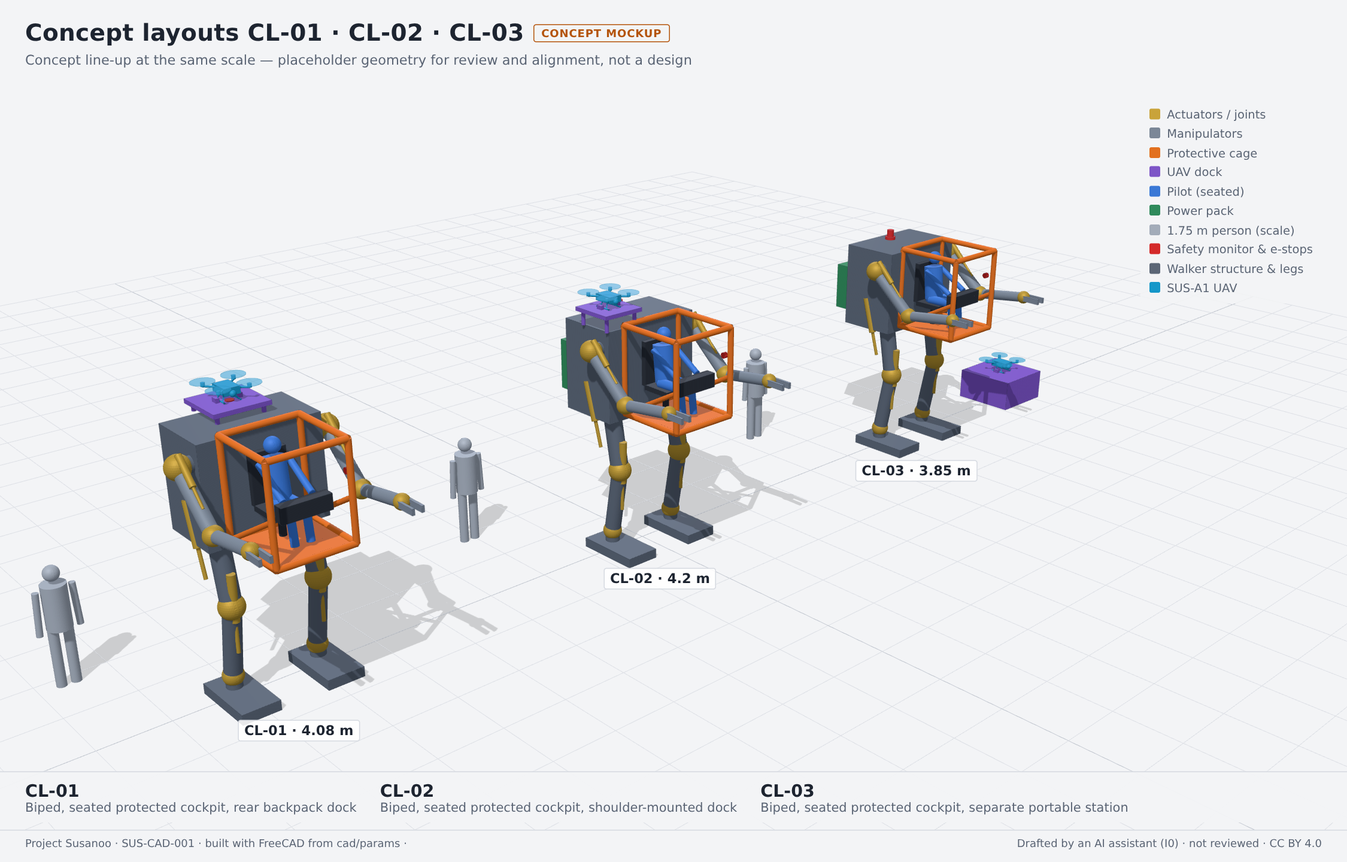
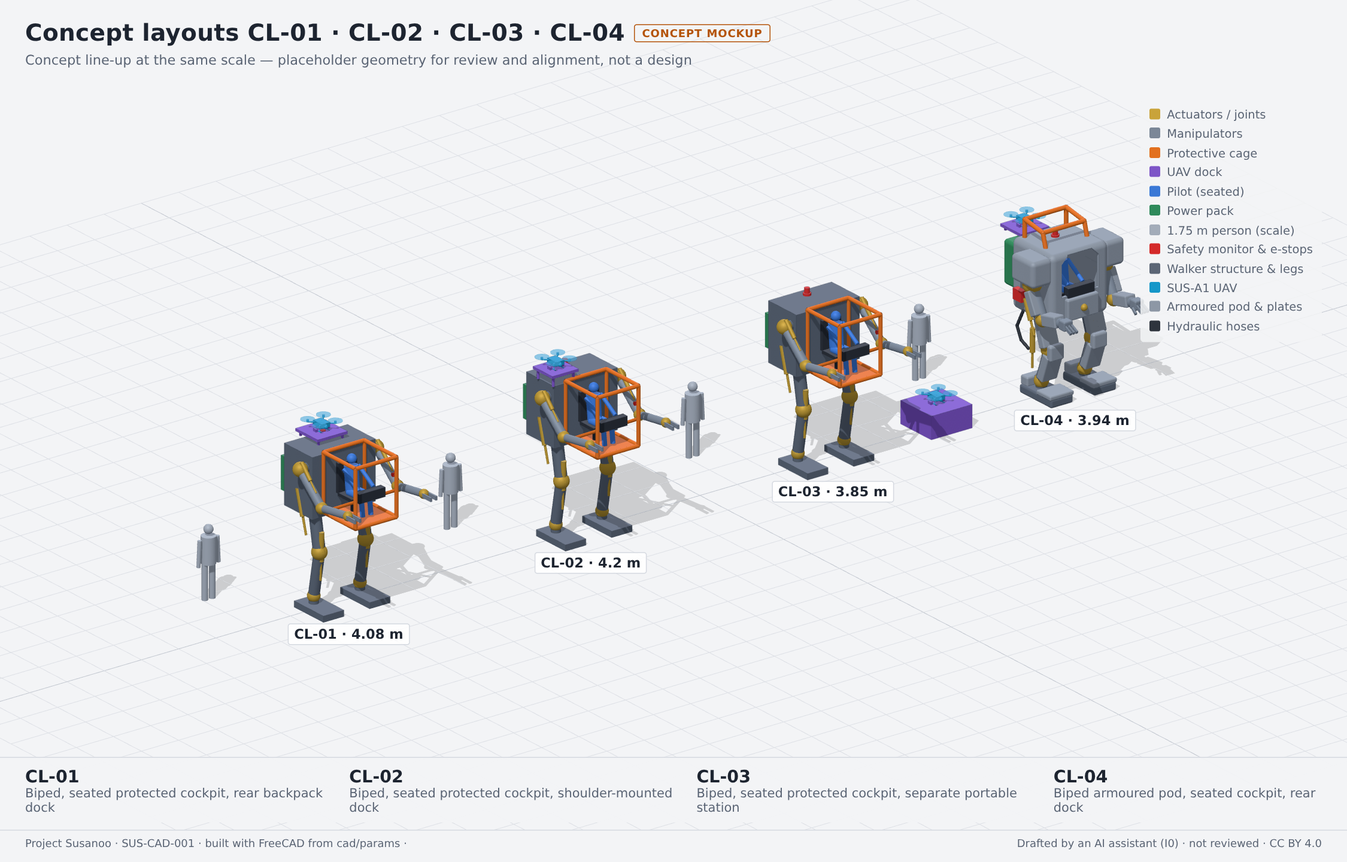
Add CL-04 armoured-pod biped concept layout with eye-level view
CL-04 restyles the parametric biped in the form language of the
project lead's reference image: an enclosed armoured hull with the
pilot seated at an arched front opening, shoulder plates, roll bar,
rear power pack and dock, and hunched legs with armour plates, big
feet and hose runs. The geometry is original; the reference model
(a commercial miniature) is not used or traced.

- build_concepts.py: armored-pod builder (shell cut with a faceted
  opening, oriented plates), mass from solids of compound shapes.
- New "hero" view from 1.7 m eye height for every layout; the
  line-up is now an orthographic three-quarter view so all layouts
  are at exactly the same scale.
- CL-04 record and findings: lowest CG and cockpit floor of the four,
  best biped static margin (still under the 0.3 m flag); the single
  front opening is the only exit (HAZ-008, HAZ-017) and the armour
  narrows the pilot's downward view (HAZ-009).

Claude-Session: https://claude.ai/code/session_011CVdJn3EBxVfYSLZJogx6T

diff --git a/tools/cad/viewer.html b/tools/cad/viewer.html
@@ -101,7 +101,7 @@ const loader = new STLLoader();
 const fmt = (v, d = 2) => Number(v).toFixed(d);
 const legendSeen = new Map();
 const COMPONENT_NAMES = { 'SUS-M1-WLK': 'Walker structure & legs', 'SUS-M1-MAN': 'Manipulators', 'SUS-M1-PIL': 'Pilot station', 'SUS-M1-PWR': 'Power pack', 'SUS-M1-SAF': 'Safety monitor & e-stops', 'SUS-M1-DCK': 'UAV dock', 'SUS-A1': 'SUS-A1 UAV' };
-const CLASS_NAMES = { actuator: 'Actuators / joints', occupant: 'Pilot (seated)', cage: 'Protective cage', reference: '1.75 m person (scale)' };
+const CLASS_NAMES = { actuator: 'Actuators / joints', occupant: 'Pilot (seated)', cage: 'Protective cage', reference: '1.75 m person (scale)', armor: 'Armoured pod & plates', hose: 'Hydraulic hoses' };
 
 async function loadConcept(id, offsetY) {
   const man = await (await fetch(`../../build/cad/${id}/manifest.json`)).json();
@@ -138,7 +138,7 @@ const size = box.getSize(new THREE.Vector3());
 
 const man = mans[0];
 const M = man.metrics;
-if (view !== 'lineup' && view !== 'dock') {
+if (view !== 'lineup' && view !== 'dock' && view !== 'hero') {
   // Centre of gravity marker and its projection on the ground
   const [cx, cy, cz] = M.cg_m;
   const cgMat1 = new THREE.MeshBasicMaterial({ color: '#111827', transparent: true }), cgMat2 = new THREE.MeshBasicMaterial({ color: '#facc15', transparent: true });
@@ -162,9 +162,15 @@ if (view !== 'lineup' && view !== 'dock') {
 
 let camera;
 const target = center.clone();
-if (view === 'iso' || view === 'lineup' || view === 'dock') {
+if (view === 'iso' || view === 'dock' || view === 'hero') {
   camera = new THREE.PerspectiveCamera(view === 'dock' ? 30 : 32, W / H, 0.1, 200);
-  if (view === 'dock') {
+  if (view === 'hero') {
+    // Low front three-quarter view from a standing person's eye height, looking into the cockpit
+    const r = Math.max(size.x, size.y, size.z) * 2.75;
+    camera.fov = 30;
+    camera.position.set(center.x + r * 0.92, center.y - r * 0.40, 1.7);
+    target.set(center.x, center.y + size.y * 0.12, size.z * 0.46);
+  } else if (view === 'dock') {
     const [a, b] = man.rotor_pilot_points;
     target.set((a[0] + b[0]) / 2, (a[1] + b[1]) / 2, (a[2] + b[2]) / 2);
     const d = man.metrics.uav_dock === 'offboard' ? 9.5 : 5.2;
@@ -174,6 +180,13 @@ if (view === 'iso' || view === 'lineup' || view === 'dock') {
     camera.position.set(center.x + r * 0.78, center.y - r * 0.72, center.z + r * 0.40);
     target.z = size.z * (view === 'lineup' ? 0.40 : 0.50);
   }
+} else if (view === 'lineup') {
+  // Orthographic three-quarter view: every concept at exactly the same scale
+  const aspect = W / H;
+  const span = Math.max(size.y * 0.40, size.z * 0.80);
+  camera = new THREE.OrthographicCamera(-span * aspect, span * aspect, span, -span, 0.1, 400);
+  target.set(center.x, center.y, size.z * 0.38);
+  camera.position.set(target.x + 60, target.y - 45, target.z + 32);
 } else {
   // Half-height chosen so the ground sits just above the metrics strip and the top clears the header.
   const span = view === 'side' ? Math.max(size.z / 1.45, size.x / 2.6) : Math.max(size.x, size.y) * 0.62;
@@ -183,6 +196,7 @@ if (view === 'iso' || view === 'lineup' || view === 'dock') {
   if (view === 'top') { camera.up.set(1, 0, 0); target.x = center.x + span * 0.08; camera.position.set(target.x, center.y, 40); camera.zoom = 0.92; }
   camera.updateProjectionMatrix();
 }
+camera.updateProjectionMatrix();
 camera.lookAt(target);
 
 // Annotations per view
@@ -212,10 +226,10 @@ if (view === 'lineup') {
 }
 
 // Header, metrics strip, legend and footer
-const VIEW_NAMES = { iso: 'Three-quarter view', side: 'Side elevation (orthographic)', top: 'Plan view: support polygon and centre of gravity', dock: 'UAV dock: rotor clearance to the pilot', lineup: 'Concept line-up at the same scale' };
+const VIEW_NAMES = { hero: 'Front view from eye height (1.7 m)', iso: 'Three-quarter view', side: 'Side elevation (orthographic)', top: 'Plan view: support polygon and centre of gravity', dock: 'UAV dock: rotor clearance to the pilot', lineup: 'Concept line-up at the same scale' };
 const hdr = document.createElement('div');
 hdr.className = 'hdr';
-const title = view === 'lineup' ? 'Concept layouts CL-01 · CL-02 · CL-03' : `${man.id} · ${man.title}`;
+const title = view === 'lineup' ? `Concept layouts ${ids.join(' · ')}` : `${man.id} · ${man.title}`;
 hdr.innerHTML = `<h1>${title}<span class="badge">CONCEPT MOCKUP</span></h1><div class="sub">${VIEW_NAMES[view]} — placeholder geometry for review and alignment, not a design</div>`;
 frame.appendChild(hdr);
 const lg = document.createElement('div');

diff --git a/tools/cad/build_concepts.py b/tools/cad/build_concepts.py
@@ -43,9 +43,11 @@ CLASSES = {
     "dock":      ("#7d55c7", 1.0, "SUS-M1-DCK"),
     "uav":       ("#1597c9", 1.0, "SUS-A1"),
     "rotor":     ("#1597c9", 0.35, "SUS-A1"),
-        "reference": ("#a3acb9", 1.0, None),
+        "armor":     ("#8d97a5", 1.0, "SUS-M1-PIL"),
+    "hose":      ("#2e343d", 1.0, "SUS-M1-PWR"),
+    "reference": ("#a3acb9", 1.0, None),
 }
-DENSITY_CLASS = {"arm": "structure", "seat": "structure", "rotor": "uav"}
+DENSITY_CLASS = {"arm": "structure", "seat": "structure", "rotor": "uav", "hose": "structure"}
 
 
 def V(x, y, z):
@@ -76,6 +78,20 @@ class Model:
 
     def sph(self, name, cls, c, r):
         self.add(name, cls, Part.makeSphere(r * MM, V(*c)))
+
+    def obox(self, name, cls, p1, p2, w, d, shift=(0, 0, 0), fillet=0.0):
+        """Box of width w (y) and depth d (x) running along the segment p1 -> p2, moved by shift."""
+        a, b = V(*add(p1, shift)), V(*add(p2, shift))
+        axis = b.sub(a)
+        shape = Part.makeBox(d * MM, w * MM, axis.Length, V(-d / 2, -w / 2, 0))
+        if fillet:
+            shape = shape.makeFillet(fillet * MM, shape.Edges)
+        shape.Placement = FreeCAD.Placement(a, FreeCAD.Rotation(FreeCAD.Vector(0, 0, 1), axis))
+        self.add(name, cls, shape)
+
+    def rbox(self, name, cls, lo, size, fillet):
+        shape = Part.makeBox(*(s * MM for s in size), V(*lo))
+        self.add(name, cls, shape.makeFillet(fillet * MM, shape.Edges))
 
 
 def lerp(a, b, t):
@@ -265,6 +281,118 @@ def walker_dock(m, common, D, top, rear_x):
     m.group = "walker"
 
 
+def build_pod(p, common):
+    """Armoured-pod biped (CL-04): enclosed hull, arched front opening, shoulder plates, roll bar."""
+    m = Model()
+    L = p["leg"]
+    kf = L["knee_forward"]
+    knee_z = L["ankle_height"] + math.sqrt(L["shank"] ** 2 - kf ** 2)
+    hip_z = knee_z + math.sqrt(L["thigh"] ** 2 - kf ** 2)
+    fl, fw, ft = L["foot"]
+    aw, ad = L["armour"]
+    for s in (1, -1):
+        y = s * L["hip_half_width"]
+        hip, knee, ankle = [0, y, hip_z], [kf, y, knee_z], [0, y, L["ankle_height"]]
+        m.cyl(f"thigh{s}", "structure", hip, knee, L["radius"])
+        m.cyl(f"shank{s}", "structure", knee, ankle, L["radius"] * 0.9)
+        m.sph(f"hip{s}", "actuator", hip, L["joint_radius"])
+        m.sph(f"knee{s}", "actuator", knee, L["joint_radius"] * 0.9)
+        m.sph(f"ankle{s}", "actuator", ankle, L["joint_radius"] * 0.75)
+        # Armour plates on the outside of thigh and shin, a knee cap in front
+        m.obox(f"thigh-plate{s}", "armor", lerp(hip, knee, 0.12), lerp(hip, knee, 0.88), aw, ad * 0.55, (0.10, s * 0.06, 0), 0.03)
+        m.obox(f"shin-plate{s}", "armor", lerp(knee, ankle, 0.10), lerp(knee, ankle, 0.85), aw, ad * 0.6, (0.14, 0, 0), 0.03)
+        m.rbox(f"knee-cap{s}", "armor", [kf + 0.12, y - 0.19, knee_z - 0.18], [0.16, 0.38, 0.36], 0.05)
+        hydraulic(m, f"thigh-cyl{s}", [-0.28, y + s * 0.22, hip_z + 0.22], add(lerp(hip, knee, 0.65), [-0.16, s * 0.22, 0]))
+        hydraulic(m, f"shank-cyl{s}", add(lerp(hip, knee, 0.5), [-0.20, s * 0.20, 0]), add(lerp(knee, ankle, 0.6), [-0.18, s * 0.20, 0]))
+        x0 = -0.35 * fl
+        m.rbox(f"foot{s}", "structure", [x0, y - fw / 2, 0], [fl, fw, ft], 0.05)
+        m.rbox(f"toe-plate{s}", "armor", [x0 + fl * 0.55, y - fw / 2 - 0.02, ft - 0.02], [fl * 0.45, fw + 0.04, 0.10], 0.03)
+        m.rbox(f"heel-guard{s}", "armor", [x0 - 0.02, y - fw / 2 + 0.05, ft - 0.02], [0.25, fw - 0.10, 0.22], 0.04)
+        m.cyl(f"ankle-link{s}", "structure", ankle, [0, y, ft], L["radius"] * 0.85)
+        m.feet += [(x0, y - fw / 2), (x0 + fl, y - fw / 2), (x0, y + fw / 2), (x0 + fl, y + fw / 2)]
+        # Hydraulic hose loop from the hull to the knee
+        h0 = [-0.25, y + s * 0.30, hip_z - 0.05]
+        h1 = [-0.42, y + s * 0.34, hip_z - 0.45]
+        h2 = [-0.30, y + s * 0.32, knee_z + 0.10]
+        h3 = [-0.12, y + s * 0.26, knee_z - 0.05]
+        for k, (a, b) in enumerate(((h0, h1), (h1, h2), (h2, h3))):
+            m.cyl(f"hose{s}{k}", "hose", a, b, 0.035)
+            m.sph(f"hose-bend{s}{k}", "hose", b, 0.035)
+
+    P = p["pod"]
+    dx, wy, hz = P["size"]
+    x1 = P["x_front"]
+    x0 = x1 - dx
+    z0 = hip_z - P["bottom_offset"]
+    z1 = z0 + hz
+    outer = Part.makeBox(dx * MM, wy * MM, hz * MM, V(x0, -wy / 2, z0))
+    outer = outer.makeFillet(P["edge_radius"] * MM, outer.Edges)
+    w = P["wall"]
+    inner = Part.makeBox((dx - 2 * w) * MM, (wy - 2 * w) * MM, (hz - 2 * w) * MM, V(x0 + w, -wy / 2 + w, z0 + w))
+    floor = z0 + P["floor_offset"]
+    ow, oh, osill = P["opening"]
+    zb = floor + 0.5 + osill
+    c = 0.18  # chamfered corners give the arched, faceted opening
+    pts = [(-ow / 2, zb), (ow / 2, zb), (ow / 2, zb + oh - c), (ow / 2 - c, zb + oh), (-ow / 2 + c, zb + oh), (-ow / 2, zb + oh - c)]
+    wire = Part.makePolygon([V(x1 - 0.5, y_, z_) for y_, z_ in pts] + [V(x1 - 0.5, pts[0][0], pts[0][1])])
+    window = Part.Face(wire).extrude(V(1.0, 0, 0))
+    m.add("pod-hull", "armor", outer.cut(inner).cut(window))
+    m.box("cockpit-floor", "seat", [x0 + w, -wy / 2 + w, floor - 0.04], [dx - 2 * w, wy - 2 * w, 0.04])
+    eye = pilot(m, floor, x1 - P["seat_back_from_front"])
+    # Chest plate below the opening, standing proud of the hull like the reference's front plate
+    m.rbox("chest-plate", "armor", [x1 - 0.04, -0.42, zb - 0.55], [0.16, 0.84, 0.50], 0.04)
+    m.sph("chest-boss", "actuator", [x1 + 0.13, 0, zb - 0.30], 0.08)
+    m.cyl("hip-housing", "structure", [0, -L["hip_half_width"] - 0.12, hip_z], [0, L["hip_half_width"] + 0.12, hip_z], 0.25)
+
+    S = p["shoulder"]
+    sx, sy, sz = S["plate"]
+    A = p["arm"]
+    ang = math.radians(A["drop_angle_deg"])
+    for s in (1, -1):
+        yc = s * (wy / 2 + sy / 2 - 0.08)
+        m.rbox(f"shoulder-plate{s}", "armor", [x1 - sx - 0.05, yc - sy / 2, z1 - S["drop"] - sz], [sx, sy, sz], 0.10)
+        sh = [x1 - sx / 2 - 0.05, s * (wy / 2 + 0.18), z1 - S["drop"] - sz - 0.05]
+        m.sph(f"arm-shoulder{s}", "actuator", sh, A["radius"] * 1.8)
+        elbow = add(sh, [A["upper"] * math.cos(ang), 0, -A["upper"] * math.sin(ang)])
+        wrist = add(elbow, [A["fore"] * math.cos(math.radians(12)), 0, A["fore"] * math.sin(math.radians(12))])
+        m.cyl(f"arm-upper{s}", "arm", sh, elbow, A["radius"])
+        m.obox(f"arm-upper-plate{s}", "armor", lerp(sh, elbow, 0.15), lerp(sh, elbow, 0.85), 0.30, 0.20, (0, s * 0.07, 0), 0.03)
+        m.sph(f"arm-elbow{s}", "actuator", elbow, A["radius"] * 1.35)
+        m.cyl(f"arm-fore{s}", "arm", elbow, wrist, A["radius"] * 0.9)
+        m.obox(f"arm-fore-plate{s}", "armor", lerp(elbow, wrist, 0.15), lerp(elbow, wrist, 0.80), 0.28, 0.26, (0, 0, 0.03), 0.03)
+        m.rbox(f"hand{s}", "arm", [wrist[0] - 0.05, wrist[1] - 0.12, wrist[2] - 0.11], [0.22, 0.24, 0.22], 0.03)
+        for k, dy in enumerate((-0.08, 0.0, 0.08)):
+            m.obox(f"finger{s}{k}", "arm", [wrist[0] + 0.15, wrist[1] + dy, wrist[2]], [wrist[0] + 0.36, wrist[1] + dy, wrist[2] - 0.10], 0.05, 0.06)
+        m.obox(f"thumb{s}", "arm", [wrist[0] + 0.08, wrist[1] - s * 0.13, wrist[2] - 0.05], [wrist[0] + 0.24, wrist[1] - s * 0.16, wrist[2] - 0.14], 0.05, 0.05)
+
+    W = p["power"]
+    px, py, pz = W["pack"]
+    pk0 = x0 - px + 0.06
+    m.rbox("power-pack", "power", [pk0, -py / 2, z0 + 0.35], [px, py, pz], 0.08)
+    for k in range(W["vents"]):
+        yv = (k - (W["vents"] - 1) / 2) * 0.17
+        m.cyl(f"vent{k}", "power", [pk0 + px * 0.55, yv, z0 + 0.35 + pz], [pk0 + px * 0.55, yv, z0 + 0.35 + pz + 0.10], 0.065)
+
+    R = p["rollbar"]
+    rt = R["tube_radius"]
+    top = z1 + R["rise"]
+    for s in (1, -1):
+        yb = s * (wy / 2 - 0.22)
+        m.cyl(f"rollbar-post{s}", "cage", [x0 + 0.20, yb, z1 - 0.05], [x0 + 0.20, yb, top], rt)
+        m.cyl(f"rollbar-fwd{s}", "cage", [x0 + 0.20, yb, top], [x0 + 0.85, yb, top - 0.10], rt)
+        m.cyl(f"rollbar-drop{s}", "cage", [x0 + 0.85, yb, top - 0.10], [x0 + 0.95, yb, z1 - 0.02], rt)
+        m.sph(f"rollbar-bend{s}", "cage", [x0 + 0.20, yb, top], rt)
+        m.sph(f"rollbar-bend2{s}", "cage", [x0 + 0.85, yb, top - 0.10], rt)
+    m.cyl("rollbar-cross", "cage", [x0 + 0.20, -(wy / 2 - 0.22), top], [x0 + 0.20, wy / 2 - 0.22, top], rt)
+    m.cyl("rollbar-cross2", "cage", [x0 + 0.85, -(wy / 2 - 0.22), top - 0.10], [x0 + 0.85, wy / 2 - 0.22, top - 0.10], rt)
+
+    safety_items(m, [x0 + 0.55, 0, z1 - 0.01], [([x1 - 0.35, wy / 2 + 0.01, z0 + 0.55], [0, 1, 0]),
+                                               ([pk0, 0.35, z0 + 0.7], [-1, 0, 0])])
+    m.cbox("saf-controller", "safety", [x0 + 0.40, -wy / 2 - 0.07, z0 + 0.45], [0.30, 0.14, 0.26])
+    walker_dock(m, common, p["dock"], top=z0 + 0.35 + pz, rear_x=pk0)
+    return m, {"hip_z": hip_z, "floor": floor, "eye": eye, "dock": "offboard" if p["dock"]["type"] == "ground-station" else "onboard"}
+
+
 # --- Metrics --------------------------------------------------------------------------------------
 
 def hull(points):
@@ -303,9 +431,10 @@ def metrics(m: Model, info: dict, common: dict) -> dict:
     mom = FreeCAD.Vector(0, 0, 0)
     for pt in on:
         rho = dens[DENSITY_CLASS.get(pt["cls"], pt["cls"])]
-        kg = pt["shape"].Volume / MM ** 3 * rho
-        mass += kg
-        mom = mom.add(pt["shape"].CenterOfMass.multiply(kg))
+        for solid in pt["shape"].Solids:  # cut shapes come back as compounds
+            kg = solid.Volume / MM ** 3 * rho
+            mass += kg
+            mom = mom.add(solid.CenterOfMass.multiply(kg))
     cg = mom.multiply(1.0 / mass).multiply(1.0 / MM)
     bb = Part.makeCompound([pt["shape"] for pt in on]).BoundBox
     poly = hull(m.feet)
@@ -358,7 +487,7 @@ def export(m: Model, cid: str, out: Path, met: dict, info: dict, title: str) -> 
                                                    "eye": [round(c, 3) for c in info["eye"]]}, indent=1))
 
 
-BUILDERS = {"biped": build_biped}  # TS-003 decided: bipedal (project lead, 2026-11-11)
+BUILDERS = {"open-frame": build_biped, "armored-pod": build_pod}  # all bipedal: TS-003 decided (project lead, 2026-11-11)
 
 
 def main() -> int:
@@ -372,7 +501,9 @@ def main() -> int:
         p = yaml.safe_load(path.read_text())
         if args.ids and p["id"] not in args.ids:
             continue
-        m, info = BUILDERS[p["locomotion"]](p, common)
+        if p["locomotion"] != "biped":
+            raise ValueError(f"{p['id']}: TS-003 is decided as bipedal; locomotion {p['locomotion']!r} is not built")
+        m, info = BUILDERS[p.get("style", "open-frame")](p, common)
         bb = Part.makeCompound([pt["shape"] for pt in m.parts if pt["group"] != "reference"]).BoundBox
         reference_human(m, (bb.XMin / MM - 0.55, bb.YMin / MM - 0.9), common["reference_human"]["height"])
         met = metrics(m, info, common)

diff --git a/tools/pdac/generate.py b/tools/pdac/generate.py
@@ -201,6 +201,8 @@ def cad_concepts(model: pdaclib.Model) -> str:
                 f"Informs: {_ids(cl.get('informs'))}. Parameters: [`{cl['params'].removeprefix('cad/')}`]({cl['params'].removeprefix('cad/')}).", ""]
         out += [f"- {f}" for f in cl.get("findings", [])]
         r_ = f"renders/{cl['id']}"
+        if (model.root / f"cad/{r_}-hero.png").is_file():
+            out += ["", f"![{cl['id']} front view from eye height]({r_}-hero.png)"]
         out += ["", "| | |", "|---|---|",
                 f"| ![{cl['id']} three-quarter view]({r_}-iso.png) | ![{cl['id']} side elevation]({r_}-side.png) |",
                 f"| ![{cl['id']} plan view with support polygon and centre of gravity]({r_}-top.png) | ![{cl['id']} UAV dock and rotor clearance to the pilot]({r_}-dock.png) |"]

diff --git a/cad/README.md b/cad/README.md
@@ -4,11 +4,11 @@
 
 > **Concept mockups, not designs.** Every layout below is built from primitive solids placed by placeholder parameters. Dimensions, masses and every metric are properties of that placeholder geometry. They exist so the team can look at the same picture, compare the trade-study alternatives side by side, and see early where an option makes a hazard worse. They select nothing: the trade studies (TS-001 to TS-004) are decided by the lead.
 
-![Concept line-up: three bipeds with the UAV docked on the back (CL-01), on the shoulder (CL-02) and on a separate ground station (CL-03), each with a 1.75 m person for scale](renders/lineup.png)
+![Concept line-up: open-frame bipeds with the UAV docked on the back (CL-01), on the shoulder (CL-02) and on a separate ground station (CL-03), and the armoured pod (CL-04), each with a 1.75 m person for scale](renders/lineup.png)
 
 ## 1. What the layouts compare
 
-Each layout (`CL-nn`) is one combination of trade-study alternatives. Locomotion is **bipedal** (TS-003, decided by the project lead). All three layouts share the same biped, the actuation hypothesis (centralized hydraulic, drawn as yellow cylinders) and the seated protected cockpit, so they differ only in where the UAV docks (TS-004). Standing and remote-pilot alternatives (TS-002) and electric actuation (TS-001) are not modelled yet.
+Each layout (`CL-nn`) is one combination of trade-study alternatives. Locomotion is **bipedal** (TS-003, decided by the project lead). CL-01 to CL-03 share the same open-frame biped, the actuation hypothesis (centralized hydraulic, drawn as yellow cylinders) and the seated protected cockpit, so they differ only in where the UAV docks (TS-004). CL-04 is an armoured-pod restyle in the form language of the lead's reference image: an enclosed hull with the pilot at an arched front opening, shoulder plates, roll bar and plated legs. Standing and remote-pilot alternatives (TS-002) and electric actuation (TS-001) are not modelled yet.
 
 What to look for in the review:
 
@@ -26,19 +26,19 @@ Metric definitions: *static margin* is the shortest horizontal distance from the
 <!-- BEGIN GENERATED: cad-concepts (tools/pdac/generate.py) -->
 *Metrics from [`metrics.json`](metrics.json) (FreeCAD 1.1.3); ⚠ marks the provisional review flags of §1.*
 
-| | CL-01 | CL-02 | CL-03 |
-|---|---|---|---|
-| Locomotion (TS-003) | bipedal | bipedal | bipedal |
-| UAV dock (TS-004) | rear backpack dock | shoulder-mounted dock | separate portable station |
-| Envelope L × W × H | 3.4 × 2.4 × 4.1 m | 3.4 × 2.4 × 4.2 m | 3.4 × 2.4 × 3.9 m |
-| Overall height | 4.08 m | 4.20 m | 3.85 m |
-| Pilot eye height | 3.54 m | 3.54 m | 3.54 m |
-| Cockpit floor (egress drop) | 2.33 m | 2.33 m | 2.33 m |
-| CG height | 2.63 m | 2.63 m | 2.63 m |
-| Static margin | 0.14 m ⚠ | 0.14 m ⚠ | 0.14 m ⚠ |
-| Static tip angle | 3.1° | 3.2° | 3.1° |
-| Rotor ↔ pilot (docked) | 0.79 m ⚠ | 0.63 m ⚠ | 3.14 m |
-| Placeholder mass | ~5.0 t | ~5.0 t | ~5.0 t |
+| | CL-01 | CL-02 | CL-03 | CL-04 |
+|---|---|---|---|---|
+| Locomotion (TS-003) | bipedal | bipedal | bipedal | bipedal |
+| UAV dock (TS-004) | rear backpack dock | shoulder-mounted dock | separate portable station | rear backpack dock |
+| Envelope L × W × H | 3.4 × 2.4 × 4.1 m | 3.4 × 2.4 × 4.2 m | 3.4 × 2.4 × 3.9 m | 3.4 × 2.5 × 3.9 m |
+| Overall height | 4.08 m | 4.20 m | 3.85 m | 3.94 m |
+| Pilot eye height | 3.54 m | 3.54 m | 3.54 m | 3.15 m |
+| Cockpit floor (egress drop) | 2.33 m | 2.33 m | 2.33 m | 1.94 m |
+| CG height | 2.63 m | 2.63 m | 2.63 m | 2.24 m |
+| Static margin | 0.14 m ⚠ | 0.14 m ⚠ | 0.14 m ⚠ | 0.23 m ⚠ |
+| Static tip angle | 3.1° | 3.2° | 3.1° | 5.7° |
+| Rotor ↔ pilot (docked) | 0.79 m ⚠ | 0.63 m ⚠ | 3.14 m | 0.92 m ⚠ |
+| Placeholder mass | ~5.0 t | ~5.0 t | ~5.0 t | ~6.3 t |
 
 ### CL-01 · Biped, seated protected cockpit, rear backpack dock
 
@@ -47,6 +47,8 @@ Options: TS-001 centralized hydraulic; TS-002 seated protected cockpit; TS-003 b
 - Common to every biped layout: the static margin is small and the CG is high above two feet, so standing still depends on active balance. Loss of actuation energy or a zero-torque stop means a fall unless SYS-008 holds posture (HAZ-005, HAZ-021).
 - Common to every biped layout: the cockpit floor is above the head of a standing person, so egress and extraction (SYS-012) need a ladder, a lowered posture or a kneel mode.
 - The rear dock sits above the cockpit roof line, so the docked rotors still come within the provisional 1 m flag of the pilot's head.
+
+![CL-01 front view from eye height](renders/CL-01-hero.png)
 
 | | |
 |---|---|
@@ -60,6 +62,8 @@ Options: TS-001 centralized hydraulic; TS-002 seated protected cockpit; TS-003 b
 - The shoulder dock puts the docked rotors beside the cage at pilot head height, the closest of the three layouts: HAZ-011 and HAZ-012 dominate, and SYS-003 rotor inhibit plus a rotor guard would be needed if this option is kept.
 - The UAV is light against the walker: the dock position changes the CG by millimetres, so TS-004 is decided by rotor clearance, access and approach geometry, not by stability.
 
+![CL-02 front view from eye height](renders/CL-02-hero.png)
+
 | | |
 |---|---|
 | ![CL-02 three-quarter view](renders/CL-02-iso.png) | ![CL-02 side elevation](renders/CL-02-side.png) |
@@ -72,10 +76,28 @@ Options: TS-001 centralized hydraulic; TS-002 seated protected cockpit; TS-003 b
 - The off-board station keeps rotors metres from the pilot and removes dock-retention loads while walking (HAZ-013), at the cost of launching and recovering only where the station is.
 - Nothing is mounted on top of the walker, so this is the lowest of the three bipeds and its hull top stays free for sensors or a beacon.
 
+![CL-03 front view from eye height](renders/CL-03-hero.png)
+
 | | |
 |---|---|
 | ![CL-03 three-quarter view](renders/CL-03-iso.png) | ![CL-03 side elevation](renders/CL-03-side.png) |
 | ![CL-03 plan view with support polygon and centre of gravity](renders/CL-03-top.png) | ![CL-03 UAV dock and rotor clearance to the pilot](renders/CL-03-dock.png) |
+
+### CL-04 · Biped armoured pod, seated cockpit, rear dock
+
+Options: TS-001 centralized hydraulic; TS-002 seated protected cockpit; TS-003 bipedal; TS-004 rear backpack dock. Informs: HAZ-006, HAZ-008, HAZ-009, HAZ-011, HAZ-017, SYS-010, SYS-012, SYS-017. Parameters: [`params/CL-04.yaml`](params/CL-04.yaml).
+
+- Form language from the project lead's reference image: an enclosed armoured pod with the pilot visible at an arched front opening, heavy shoulder plates, roll bar and hunched, plated legs. The geometry is original and parametric.
+- Lowest CG and lowest cockpit floor of the four layouts, and the best static margin of the bipeds, though still under the 0.3 m review flag: the shorter, more bent legs pull the mass down.
+- The enclosed pod protects the pilot better in a fall or overturn (SYS-010) than an open cage, but the single front opening is the only way out: a forward fall blocks egress and extraction (HAZ-008, SYS-012), and a fire inside the pod (HAZ-017) has one exit. A second exit or a release panel is needed.
+- The armour around the opening narrows the pilot's view down and to the sides, toward the feet and manipulators (HAZ-009).
+
+![CL-04 front view from eye height](renders/CL-04-hero.png)
+
+| | |
+|---|---|
+| ![CL-04 three-quarter view](renders/CL-04-iso.png) | ![CL-04 side elevation](renders/CL-04-side.png) |
+| ![CL-04 plan view with support polygon and centre of gravity](renders/CL-04-top.png) | ![CL-04 UAV dock and rotor clearance to the pilot](renders/CL-04-dock.png) |
 <!-- END GENERATED: cad-concepts -->
 
 ## 3. How the layouts are made

diff --git a/README.md b/README.md
@@ -30,7 +30,7 @@ MIL-STD-882E is the integrated system safety method. ISO 12100, ISO 13849 and IE
 <!-- BEGIN GENERATED: status (tools/pdac/generate.py) -->
 **Status:** Concept. Simulation-first; no hardware built, no certification, qualification, airworthiness approval or formal risk acceptance claimed.
 
-**PDaC records** (`d604c9063040`): 14 scenarios · [21 hazards](safety/preliminary-hazard-list.md) (initial risk, proposed: 8 high, 10 serious, 3 medium) · 18 requirements (18 candidate) · 3 open trade studies · 0 recorded approvals · release `SUS-I1-R0.2` planned. No risk has been accepted.
+**PDaC records** (`7cfed46145e3`): 14 scenarios · [21 hazards](safety/preliminary-hazard-list.md) (initial risk, proposed: 8 high, 10 serious, 3 medium) · 18 requirements (18 candidate) · 3 open trade studies · 0 recorded approvals · release `SUS-I1-R0.2` planned. No risk has been accepted.
 <!-- END GENERATED: status -->
 
 ## Checking the records

diff --git a/docs/wiki/Home.md b/docs/wiki/Home.md
@@ -5,7 +5,7 @@ Process guidance for the unarmed SUS-M1 piloted walker and SUS-A1 observation UA
 <!-- BEGIN GENERATED: status (tools/pdac/generate.py) -->
 **Status:** Concept. Simulation-first; no hardware built, no certification, qualification, airworthiness approval or formal risk acceptance claimed.
 
-**PDaC records** (`d604c9063040`): 14 scenarios · [21 hazards](../../safety/preliminary-hazard-list.md) (initial risk, proposed: 8 high, 10 serious, 3 medium) · 18 requirements (18 candidate) · 3 open trade studies · 0 recorded approvals · release `SUS-I1-R0.2` planned. No risk has been accepted.
+**PDaC records** (`7cfed46145e3`): 14 scenarios · [21 hazards](../../safety/preliminary-hazard-list.md) (initial risk, proposed: 8 high, 10 serious, 3 medium) · 18 requirements (18 candidate) · 3 open trade studies · 0 recorded approvals · release `SUS-I1-R0.2` planned. No risk has been accepted.
 <!-- END GENERATED: status -->
 
 ## Navigate
